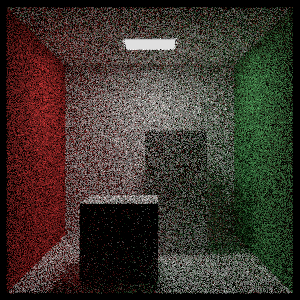
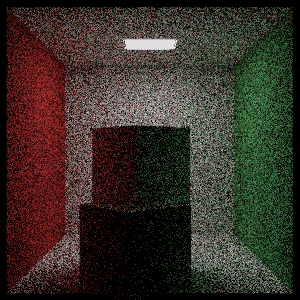
Cornell box complete

diff --git a/hit/rotate_y.go b/hit/rotate_y.go
@@ -1,0 +1,86 @@
+package hit
+
+import (
+	"math"
+	"ray-tracing/bvh"
+	"ray-tracing/ray"
+	"ray-tracing/utils"
+	"ray-tracing/vec"
+)
+
+type RotateY struct {
+	Object   Hitable
+	sin, cos float64
+	BBox     bvh.AABB
+}
+
+func NewRotateY(obj Hitable, ang float64) RotateY {
+	sin := math.Sin(ang)
+	cos := math.Cos(ang)
+	r := RotateY{
+		Object: obj,
+		sin:    sin,
+		cos:    cos,
+	}
+
+	r.BBox = obj.BoundingBox()
+
+	min := *vec.New(math.Inf(1), math.Inf(1), math.Inf(1))
+	max := *vec.New(math.Inf(-1), math.Inf(-1), math.Inf(-1))
+
+	for i := 0; i < 2; i++ {
+		for j := 0; j < 2; j++ {
+			for k := 0; k < 2; k++ {
+				x := float64(i)*r.BBox.X.Max + float64(1-i)*r.BBox.X.Min
+				y := float64(j)*r.BBox.Y.Max + float64(1-j)*r.BBox.Y.Min
+				z := float64(k)*r.BBox.Z.Max + float64(1-k)*r.BBox.Z.Min
+				newx := r.cos*x + r.sin*z
+				newz := -r.sin*x + r.cos*z
+
+				tester := *vec.New(newx, y, newz)
+
+				for c := 0; c < 3; c++ {
+					min.Set(c, math.Min(min.Get(c), tester.Get(c)))
+					max.Set(c, math.Max(max.Get(c), tester.Get(c)))
+				}
+			}
+		}
+	}
+
+	r.BBox = bvh.FromPoints(min, max)
+
+	return r
+}
+
+func (ry RotateY) Hit(r ray.Ray, limit utils.Interval, ret *HitData) bool {
+	ox := ry.cos*r.Origin.Get(0) - ry.sin*r.Origin.Get(2)
+	oz := ry.sin*r.Origin.Get(0) + ry.cos*r.Origin.Get(2)
+
+	dx := ry.cos*r.Direction.Get(0) - ry.sin*r.Direction.Get(2)
+	dz := ry.sin*r.Direction.Get(0) + ry.cos*r.Direction.Get(2)
+
+	ray_rotated := *ray.New(
+		*vec.New(ox, r.Origin.Y(), oz),
+		*vec.New(dx, r.Direction.Y(), dz),
+	)
+
+	if !ry.Object.Hit(ray_rotated, limit, ret) {
+		return false
+	}
+
+	p0 := ry.cos*ret.Point.X() + ry.sin*ret.Point.Z()
+	p2 := -ry.sin*ret.Point.X() + ry.cos*ret.Point.Z()
+
+	// Change the normal from object space to world space
+	n0 := ry.cos*ret.Normal.X() + ry.sin*ret.Normal.Z()
+	n2 := -ry.sin*ret.Normal.X() + ry.cos*ret.Normal.Z()
+
+	ret.Point = *vec.New(p0, ret.Point.Y(), p2)
+	ret.Normal = *vec.New(n0, ret.Normal.Y(), n2)
+
+	return true
+}
+
+func (ry RotateY) BoundingBox() bvh.AABB {
+	return ry.Object.BoundingBox()
+}

diff --git a/main.go b/main.go
@@ -202,8 +202,15 @@ func CornelScene() {
 	world.Add(hit.NewQuad(*vec.New(555, 555, 555), *vec.New(-555, 0, 0), *vec.New(0, 0, -555), white))
 	world.Add(hit.NewQuad(*vec.New(0, 0, 555), *vec.New(555, 0, 0), *vec.New(0, 555, 0), white))
 
-	world.Add(getBox(*vec.New(130, 0, 65), *vec.New(295, 165, 230), white))
-	world.Add(getBox(*vec.New(265, 0, 295), *vec.New(430, 330, 460), white))
+	box := getBox(*vec.New(0,0,0), *vec.New(165,330,165), white);
+    box1 := hit.NewRotateY(box, 15);
+    box11 := hit.NewTranslate(box1, *vec.New(265,0,295));
+    world.Add(box11);
+
+    box = getBox(*vec.New(0,0,0),* vec.New(165,165,165), white);
+    box2 := hit.NewRotateY(box, -18);
+    box22 := hit.NewTranslate(box2, *vec.New(130,0,65));
+    world.Add(box22);
 
 	cam := camera.New(
 		300,

diff --git a/hit/translate.go b/hit/translate.go
@@ -1,0 +1,44 @@
+package hit
+
+import (
+	"ray-tracing/bvh"
+	"ray-tracing/ray"
+	"ray-tracing/utils"
+	"ray-tracing/vec"
+)
+
+type Translate struct {
+	Object Hitable
+	Offset vec.Vec3
+	BBox   bvh.AABB
+}
+
+func NewTranslate(obj Hitable, off vec.Vec3) Translate {
+	t := Translate{
+		Object: obj,
+		Offset: off,
+	}
+
+	t.BBox = obj.BoundingBox().Translate(off)
+
+	return t
+}
+
+func (t Translate) Hit(r ray.Ray, limit utils.Interval, ret *HitData) bool {
+	offset_ray := ray.New(
+		*vec.Sub(r.Origin, t.Offset),
+		r.Direction,
+	)
+
+	if !t.Object.Hit(*offset_ray, limit, ret) {
+		return false
+	}
+
+	ret.Point.Add(t.Offset)
+
+	return true
+}
+
+func (t Translate) BoundingBox() bvh.AABB {
+	return t.Object.BoundingBox()
+}

diff --git a/utils/interval.go b/utils/interval.go
@@ -1,6 +1,8 @@
 package utils
 
-import "math"
+import (
+	"math"
+)
 
 type Interval struct {
 	Min float64
@@ -14,6 +16,10 @@ func GroupInterval(a, b Interval) Interval {
 		Min: math.Min(a.Min, b.Min),
 		Max: math.Max(a.Max, b.Max),
 	}
+}
+
+func (itv Interval) TranslateInterval(off float64) Interval {
+	return NewInterval(itv.Min+off, itv.Max+off)
 }
 
 func (i *Interval) Contains(x float64) bool {

diff --git a/bvh/aabb.go b/bvh/aabb.go
@@ -91,3 +91,11 @@ func (ab AABB) Pad() AABB {
 
 	return New(newX, newY, newZ)
 }
+
+func (ab AABB) Translate(vec vec.Vec3) AABB {
+	return New(
+		ab.X.TranslateInterval(vec.X()),
+		ab.Y.TranslateInterval(vec.Y()),
+		ab.Z.TranslateInterval(vec.Z()),
+	)
+}

diff --git a/vec/vec.go b/vec/vec.go
@@ -36,6 +36,10 @@ func (v *Vec3) Get(n int) float64 {
 	return v.e[n]
 }
 
+func (v *Vec3) Set(n int,val float64) {
+	v.e[n]= val
+}
+
 func (v Vec3) Negative() *Vec3 {
 	return &Vec3{
 		e: [3]float64{-v.e[0], -v.e[1], -v.e[2]},
